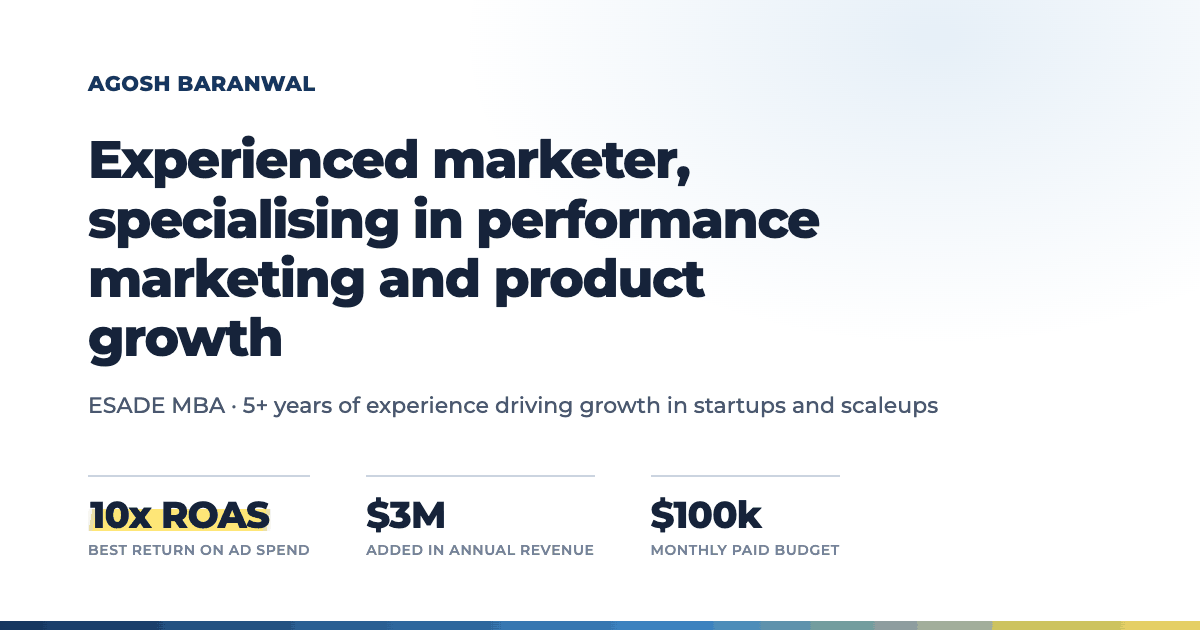
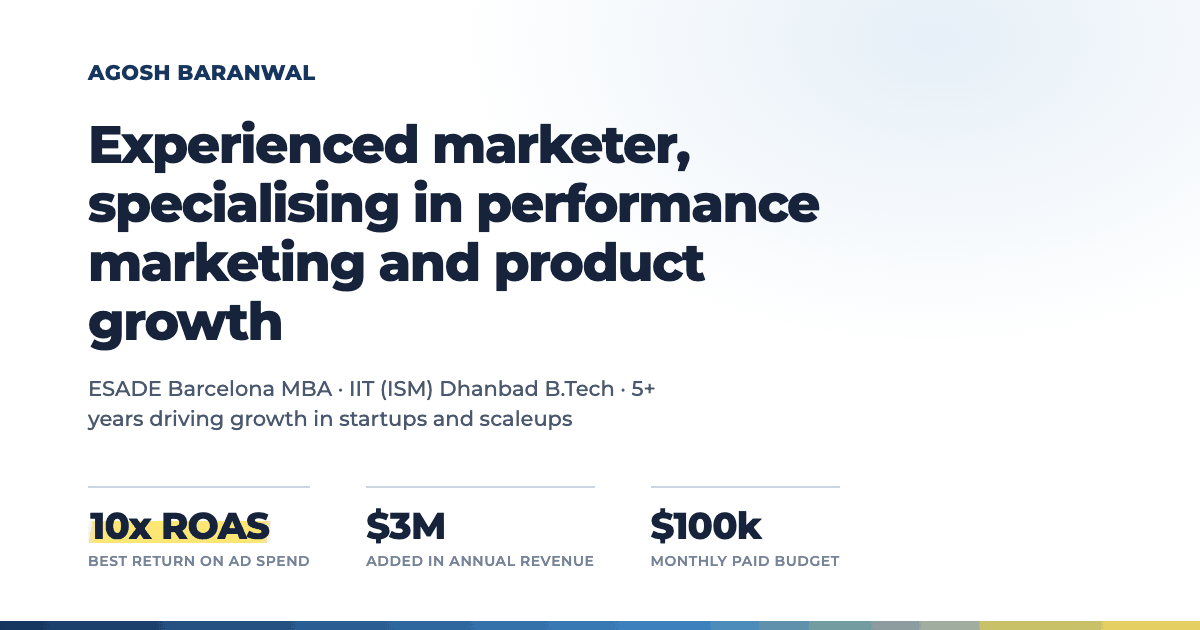
Profile previews, prints that move under the cursor, and the leftovers
The LinkedIn preview, and what was blocking it
The card was a badge, a name and a URL, which is a link with a label rather than
a preview. It is now shaped like the profile it points at: a round slot for his
photograph with the platform mark on its corner, his name, his headline and the
URL. GitHub matches it.

The photograph is the blocker and it is not one I can clear. LinkedIn serves
profile pictures from signed, expiring CDN URLs and refuses automated requests,
so the file has to come from him. The slot is quiet until it does, the same as
every other empty slot on the site, and dropping the image into incoming/ is a
one-line swap. The contact block widened from 660 to 760px so three lines of
preview fit without wrapping into a column.

The prints move
Hovering a photograph straightens it out of its tilt, lifts it, grows it very
slightly and deepens its shadow, on the About gallery and on the three prints in
the hero, which also come to the front of the stack. Gated on hover:hover and
prefers-reduced-motion.

The straightening needed the hover rule placed AFTER the nth-child tilts: both
are (0,2,1), so source order is the only thing that decides. Proved rather than
assumed, by copying the hover rules onto a class, putting the class on one print
and diffing the render: 11,020 pixels move on a gallery print and 23,226 on a
hero print.

The About page
176px sat between the last photograph and the contact block. It is 78px now. The
[…]

diff --git a/site.css b/site.css
@@ -141,6 +141,7 @@ html.js .rv.in{opacity:1;transform:none}
 
 /* ---------- photo prints: how a person's photos should read ---------- */
 .print{background:linear-gradient(160deg,var(--slot),var(--slot-2));border:6px solid var(--card);border-radius:14px;box-shadow:var(--shadow)}
+@media (hover:hover) and (prefers-reduced-motion:no-preference){.print{transition:transform .42s var(--ease),box-shadow .42s var(--ease)}}
 
 /* ---------- HOME: hero ---------- */
 .hero{padding:clamp(18px,2.2vw,32px) 0 clamp(24px,2.6vw,38px);text-align:center;position:relative}
@@ -151,6 +152,12 @@ html.js .rv.in{opacity:1;transform:none}
 .hero-photos .ph.a{width:clamp(88px,15vw,172px);transform:rotate(-5deg) translateY(26px);margin-right:-22px;z-index:1}
 .hero-photos .ph.b{width:clamp(128px,20vw,232px);aspect-ratio:4/5;z-index:2;box-shadow:var(--shadow-lift)}
 .hero-photos .ph.c{width:clamp(88px,15vw,172px);transform:rotate(4deg) translateY(34px);margin-left:-22px;z-index:1}
+@media (hover:hover){
+	.hero-photos .ph:hover{box-shadow:var(--shadow-lift);z-index:3}
+	.hero-photos .ph.a:hover{transform:rotate(-2.2deg) translateY(14px) scale(1.04)}
+	.hero-photos .ph.b:hover{transform:translateY(-9px) scale(1.035)}
+	.hero-photos .ph.c:hover{transform:rotate(1.8deg) translateY(22px) scale(1.04)}
+}
 .hero .pos{font-size:clamp(19px,2.4vw,24px);line-height:1.5;font-weight:700;margin:0 auto 12px;max-width:36ch;letter-spacing:-.01em}
 .hero .sub{font-size:14.5px;font-weight:500;color:var(--ink-mid);max-width:52ch;margin:0 auto 26px}
 .hero-act{display:flex;flex-wrap:wrap;gap:12px;align-items:center;justify-content:center}
@@ -270,7 +277,6 @@ html.js .rv.in{opacity:1;transform:none}
 .feature .f-title .hl2{background-image:var(--hi);background-size:100% .55em;background-position:0 82%;background-repeat:no-repeat;padding:0 .06em;white-space:nowrap;border-radius:2px}
 .feature .f-deck{display:block;margin:0 0 12px;font-size:14.5px;font-weight:500;color:var(--ink-mid);max-width:56ch}
 .feature .meta{font-size:11px;font-weight:600;letter-spacing:.11em;text-transform:uppercase;color:var(--ink-soft);display:flex;gap:18px;flex-wrap:wrap}
-.blog-note{font-size:13.5px;font-weight:500;color:var(--ink-soft);margin:clamp(26px,3.4vw,40px) 0 clamp(56px,7vw,96px)}
 
 /* ---------- ABOUT ME page ---------- */
 .gallery{display:grid;grid-template-columns:repeat(3,minmax(0,1fr));gap:clamp(26px,3.6vw,46px);margin-top:clamp(30px,4vw,48px)}
@@ -280,27 +286,40 @@ html.js .rv.in{opacity:1;transform:none}
 .gal .print{aspect-ratio:4/5}
 .gal:nth-child(odd) .print{transform:rotate(-1.1deg)}
 .gal:nth-child(even) .print{transform:rotate(1deg)}
+/* AFTER the tilts on purpose: same specificity, so source order is what lets
+   the hover straighten a print that a :nth-child rule has already turned */
+@media (hover:hover){
+	.gal:hover .print{transform:rotate(0deg) translateY(-7px) scale(1.015);box-shadow:var(--shadow-lift)}
+}
+/* the captions arrive with the photographs, one place and year each */
 .gal .cap{font-size:11px;font-weight:600;letter-spacing:.1em;text-transform:uppercase;color:var(--ink-soft);text-align:center}
 @media (max-width:640px){.gallery{grid-template-columns:repeat(2,minmax(0,1fr))}}
-.about-contact{margin-top:clamp(56px,7vw,96px);border-top:1px solid var(--line);padding-block:clamp(48px,6vw,80px) clamp(56px,7vw,96px);text-align:center}
+.about-contact{margin-top:clamp(28px,3.4vw,44px);border-top:1px solid var(--line);padding-block:clamp(32px,3.8vw,50px) clamp(34px,4.2vw,56px);text-align:center}
 .about-contact h2{font-size:clamp(21px,2.6vw,28px);font-weight:800;letter-spacing:-.02em;margin:0 0 12px}
 .about-contact p.say{font-size:15px;font-weight:500;margin:0 auto 24px;color:var(--ink-mid);max-width:46ch}
 .about-contact .mail{font-size:clamp(16px,2vw,19px);font-weight:700;margin:0 0 6px}
 .about-contact .reply{font-size:12.5px;font-weight:500;color:var(--ink-soft);margin:0 0 28px}
 .links-row{display:grid;grid-template-columns:repeat(2,minmax(0,1fr));gap:14px}
 @media (max-width:600px){.links-row{grid-template-columns:minmax(0,1fr)}}
-.link-card{display:grid;grid-template-columns:46px minmax(0,1fr) auto;gap:13px;align-items:center;background:var(--card);border:1px solid var(--line);border-radius:14px;box-shadow:var(--shadow);padding:12px 18px 12px 12px;text-decoration:none;color:inherit;min-width:min(320px,100%);text-align:left;transition:transform .3s var(--ease),box-shadow .3s var(--ease)}
+.link-card{display:grid;grid-template-columns:52px minmax(0,1fr) auto;gap:14px;align-items:center;background:var(--card);border:1px solid var(--line);border-radius:14px;box-shadow:var(--shadow);padding:12px 18px 12px 12px;text-decoration:none;color:inherit;min-width:min(320px,100%);text-align:left;transition:transform .3s var(--ease),box-shadow .3s var(--ease)}
 @media (hover:hover){.link-card:hover{transform:translateY(-3px);box-shadow:var(--shadow-lift);color:inherit}}
-.link-card .badge{width:46px;height:46px;border-radius:11px;display:grid;place-items:center;font-size:15px;font-weight:800;color:#fff;letter-spacing:.01em}
+/* The round slot is where his own photograph goes. Until he sends one it is a
+   quiet panel with the platform mark on its corner, exactly as the empty photo
+   slots elsewhere are quiet: nothing is written in it saying it is empty. */
+.link-card .pfp{width:52px;height:52px;border-radius:50%;background:linear-gradient(160deg,var(--slot),var(--slot-2));position:relative;display:block}
+.link-card .pfp img{width:100%;height:100%;border-radius:50%;object-fit:cover;display:block}
+.link-card .badge{position:absolute;right:-3px;bottom:-3px;width:23px;height:23px;border-radius:50%;display:grid;place-items:center;font-size:9.5px;font-weight:800;color:#fff;letter-spacing:.01em;border:2px solid var(--card)}
 .link-card .badge.li{background:#0A66C2}
 .link-card .badge.gh{background:#24292F}
+.link-card .lc-t{min-width:0}
 .link-card .who{display:block;font-size:13.5px;font-weight:700;line-height:1.35}
-.link-card .what{display:block;font-size:11.5px;color:var(--ink-soft);font-weight:500}
+.link-card .what{display:block;font-size:11.5px;color:var(--ink-mid);font-weight:500;line-height:1.4;margin-top:1px}
+.link-card .url{display:block;font-size:11px;color:var(--ink-soft);font-weight:600;margin-top:4px}
 .link-card .arrow{color:var(--sky);font-weight:700}
 
 /* ---------- home closing band ---------- */
 .contact{background:linear-gradient(180deg,var(--paper-2),var(--paper));border-top:1px solid var(--line);margin-top:clamp(20px,2.4vw,34px)}
-.contact .inner{padding-block:clamp(38px,4.2vw,56px);max-width:660px;margin-inline:auto;text-align:center}
+.contact .inner{padding-block:clamp(38px,4.2vw,56px);max-width:760px;margin-inline:auto;text-align:center}
 .contact h2{font-size:clamp(23px,2.8vw,31px);font-weight:800;margin:0 0 12px;letter-spacing:-.02em}
 .contact p.say{font-size:15px;font-weight:500;margin:0 auto 26px;color:var(--ink-mid);max-width:46ch}
 .contact .mail{font-size:clamp(16px,2vw,19px);font-weight:700;margin:0 0 6px}
@@ -324,9 +343,6 @@ html.js .rv.in{opacity:1;transform:none}
 .prose blockquote{margin:26px 0;padding:2px 0 2px 20px;border-left:3px solid;border-image:linear-gradient(180deg,var(--sky),var(--navy)) 1;font-size:18px;font-weight:600;color:var(--ink);line-height:1.5}
 .prose figure{margin:30px 0}
 .prose figcaption{font-size:12.5px;font-weight:500;color:var(--ink-soft);margin-top:10px}
-.prose .sources{margin-top:44px;padding-top:24px;border-top:1px solid var(--line)}
-.prose .sources h3{margin-top:0}
-.prose .sources li{font-size:14px;line-height:1.6}
 .post-head{padding-block:clamp(44px,5.5vw,76px) 0}
 .post-head h1{font-size:clamp(30px,4.2vw,46px);font-weight:800;letter-spacing:-.028em;line-height:1.12;margin:0 0 16px;max-width:20ch}
 .post-head .deck{font-size:clamp(16px,1.9vw,19px);font-weight:500;color:var(--ink-mid);max-width:60ch;margin:0 0 18px}
@@ -342,12 +358,10 @@ html.js .rv.in{opacity:1;transform:none}
 .cv-row{display:flex;justify-content:space-between;align-items:baseline;gap:16px;flex-wrap:wrap}
 .cv-org{font-size:17px;font-weight:700;letter-spacing:-.01em;margin:0}
 .cv-date{font-size:12px;font-weight:600;letter-spacing:.08em;text-transform:uppercase;color:var(--ink-soft);white-space:nowrap}
-.cv-role{font-size:13.5px;font-weight:500;color:var(--ink-mid);margin:2px 0 8px}
 .cv-points{margin:0;padding-left:20px}
 .cv-points li{font-size:14.5px;line-height:1.65;color:var(--ink-mid);margin-bottom:6px}
 .cv-contact{display:flex;flex-wrap:wrap;gap:8px 22px;align-items:center;margin-top:14px}
 .cv-contact a{font-size:13.5px;font-weight:500}
-.cv-skills{display:grid;gap:16px}
 .cv-skill-row{display:grid;grid-template-columns:150px minmax(0,1fr);gap:6px 20px}
 .cv-skill-cat{font-size:11px;font-weight:700;letter-spacing:.14em;text-transform:uppercase;color:var(--sky)}
 .cv-skill-items{font-size:14.5px;font-weight:500;color:var(--ink-mid)}

diff --git a/about.html b/about.html
@@ -49,6 +49,12 @@
 					<p class="lead">Photographs from outside work, and how to reach me</p>
 				</div>
 
+				<p class="notice">
+					<span class="dot" aria-hidden="true"></span>
+					<b>The photographs are not up yet</b>
+					<span>Six of them are on their way, and the contact details below are live</span>
+				</p>
+
 				<div class="gallery">
 					<figure class="gal">
 						<span class="print" aria-hidden="true"></span>
@@ -77,18 +83,20 @@
 					<p class="reply">I read every message and reply within a day</p>
 				<div class="links-row">
 					<a class="link-card" href="https://www.linkedin.com/in/agoshbaranwal/" target="_blank" rel="noopener">
-						<span class="badge li" aria-hidden="true">in</span>
-						<span>
+						<span class="pfp" aria-hidden="true"><span class="badge li">in</span></span>
+						<span class="lc-t">
 							<span class="who">Agosh Baranwal</span>
-							<span class="what">linkedin.com/in/agoshbaranwal</span>
+							<span class="what">Performance marketing and product growth</span>
+							<span class="url">linkedin.com/in/agoshbaranwal</span>
 						</span>
 						<span class="arrow" aria-hidden="true">&rarr;</span>
 					</a>
 					<a class="link-card" href="https://github.com/agoshbaranwal" target="_blank" rel="noopener">
-						<span class="badge gh" aria-hidden="true">GH</span>
-						<span>
+						<span class="pfp" aria-hidden="true"><span class="badge gh">GH</span></span>
+						<span class="lc-t">
 							<span class="who">Agosh Baranwal</span>
-							<span class="what">github.com/agoshbaranwal</span>
+							<span class="what">The code behind the projects on this page</span>
+							<span class="url">github.com/agoshbaranwal</span>
 						</span>
 						<span class="arrow" aria-hidden="true">&rarr;</span>
 					</a>

diff --git a/index.html b/index.html
@@ -219,18 +219,20 @@
 					<p class="reply">I read every message and reply within a day</p>
 				<div class="links-row">
 					<a class="link-card" href="https://www.linkedin.com/in/agoshbaranwal/" target="_blank" rel="noopener">
-						<span class="badge li" aria-hidden="true">in</span>
-						<span>
+						<span class="pfp" aria-hidden="true"><span class="badge li">in</span></span>
+						<span class="lc-t">
 							<span class="who">Agosh Baranwal</span>
-							<span class="what">linkedin.com/in/agoshbaranwal</span>
+							<span class="what">Performance marketing and product growth</span>
+							<span class="url">linkedin.com/in/agoshbaranwal</span>
 						</span>
 						<span class="arrow" aria-hidden="true">&rarr;</span>
 					</a>
 					<a class="link-card" href="https://github.com/agoshbaranwal" target="_blank" rel="noopener">
-						<span class="badge gh" aria-hidden="true">GH</span>
-						<span>
+						<span class="pfp" aria-hidden="true"><span class="badge gh">GH</span></span>
+						<span class="lc-t">
 							<span class="who">Agosh Baranwal</span>
-							<span class="what">github.com/agoshbaranwal</span>
+							<span class="what">The code behind the projects on this page</span>
+							<span class="url">github.com/agoshbaranwal</span>
 						</span>
 						<span class="arrow" aria-hidden="true">&rarr;</span>
 					</a>
